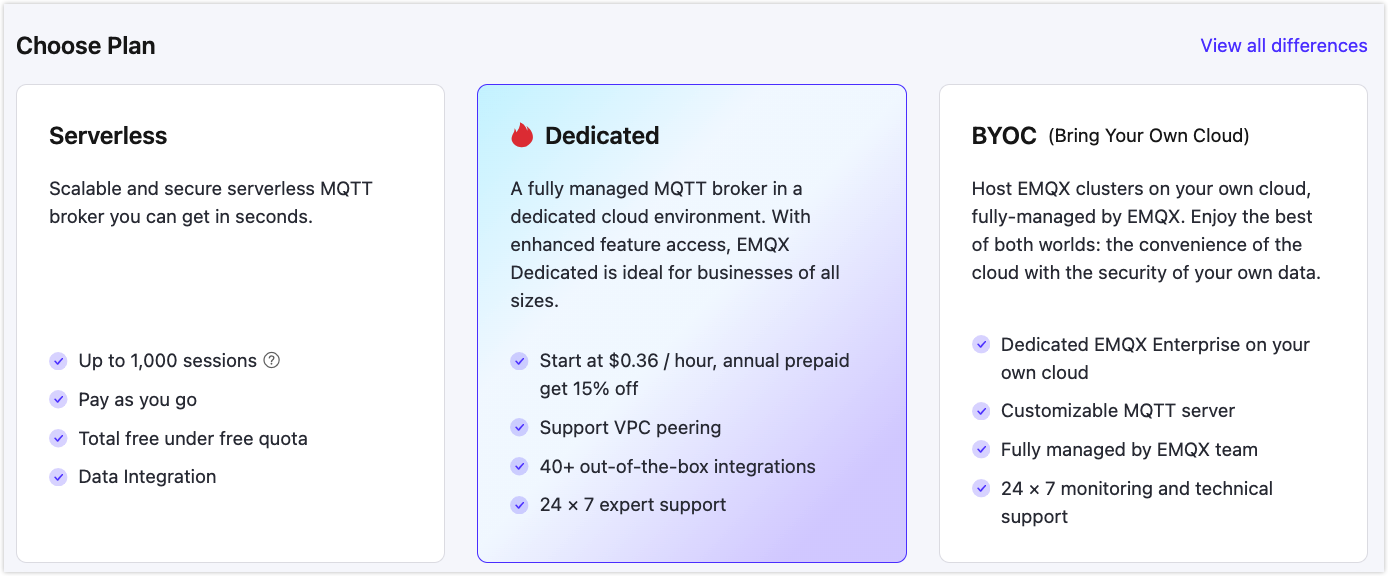
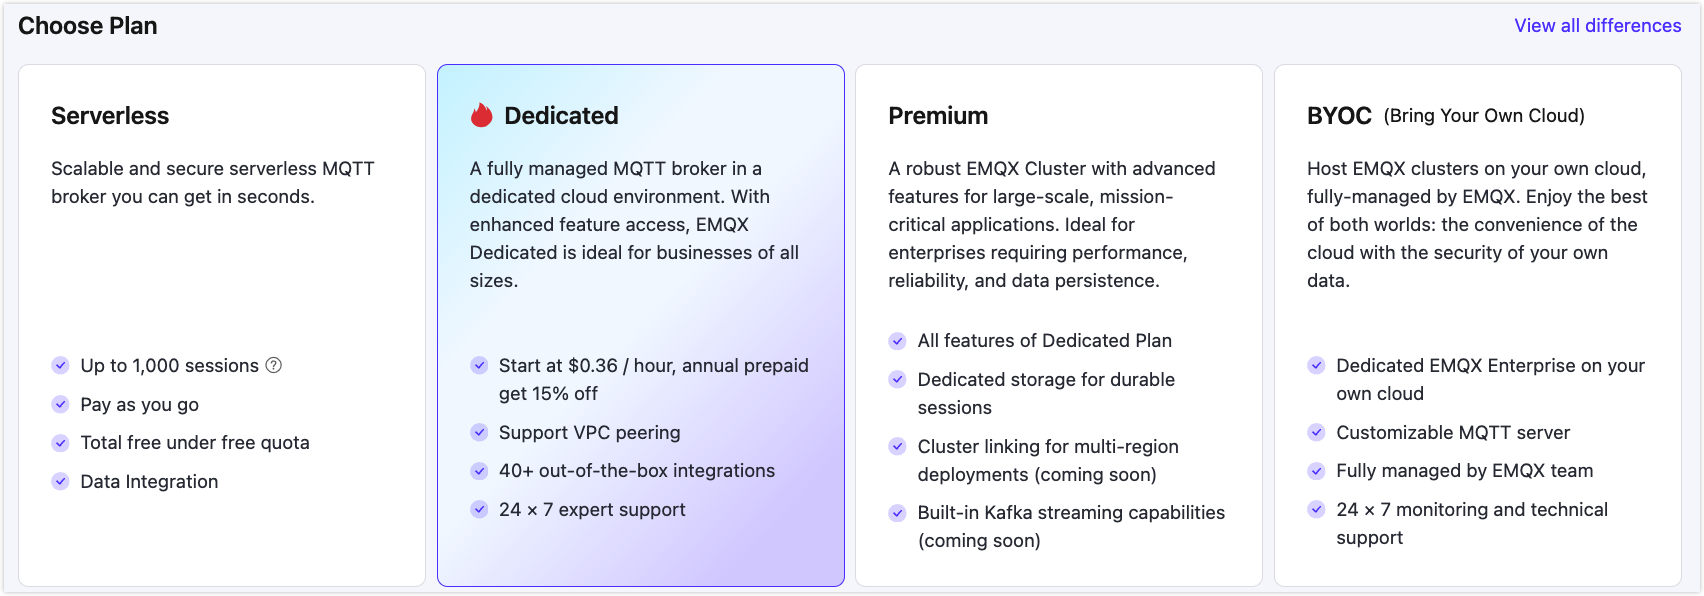
Incorporate review comments

diff --git a/en_US/deployments/port_guide_dedicated.md b/en_US/deployments/port_guide_dedicated.md
@@ -1,6 +1,6 @@
-# Dedicated and BYOC Connection Guide
+# Dedicated, Premium and BYOC Connection Guide
 
-This page introduces the protocols and ports used for connecting to the Dedicated and BYOC deployments and provides a troubleshooting guide for connection issues.
+This page introduces the protocols and ports used for connecting to the Dedicated, Premium and BYOC deployments and provides a troubleshooting guide for connection issues.
 
 ## Protocols and Ports Q&A
 
@@ -8,7 +8,7 @@ The following table lists the protocols and ports used for connecting to the Ded
 
 | **Plans**                | **TCP port(mqtt)** | **MQTT over TLS/SSL port (mqtts)** | **WebSocket port(ws)** | **WebSocket over TLS/SSL port(wss)** |
 | ------------------------ | ------------------ | ---------------------------------- | ---------------------- | ------------------------------------ |
-| Decicated | 1883               | 8883 (Need TLS/SSL configuration)  | 8083                   | 8084 (Need TLS/SSL configuration)    |
+| Decicated / Premium | 1883               | 8883 (Need TLS/SSL configuration)  | 8083                   | 8084 (Need TLS/SSL configuration)    |
 | BYOC                     | 1883               | 8883                               | 8083                   | 8084                                 |
 
 
@@ -62,9 +62,9 @@ You can check sample code (TLS-related sample code) to write client's code.
 
 If you encounter problems when connecting to a deployment, follow the steps in this guide based on your deployment plan for troubleshooting and self-diagnosis.
 
-### Dedicated Plan
+### Dedicated / Premium Plan
 
-If you encounter problems connecting to the Dedicated plan, self-diagnose and troubleshoot using the following steps:
+If you encounter problems connecting to the Dedicated / Premium plan, self-diagnose and troubleshoot using the following steps:
 
 1. **Check the connection address**. Ensure you are using the **correct IP address** provided by the Dedicated plan for connection. Note that the Dedicated plan supports direct connection using IP addresses and encrypted connection through custom TLS/SSL configuration. If you need a domain name as the connection address, you can point the Dedicated plan's connection IP address to your own domain name.
 

diff --git a/en_US/price/plans.md b/en_US/price/plans.md
@@ -71,14 +71,14 @@ This section provides a detailed comparison of features across different service
       <td style="text-indent: 2em;">Azure</td>
       <td>-</td>
       <td>&#10003</td>
-      <td>&#10007</td>
+      <td>Coming soon</td>
       <td>Coming soon</td>
    </tr>
    <tr>
       <td style="text-indent: 2em;">GCP</td>
       <td>-</td>
       <td>&#10003</td>
-      <td>&#10007</td>
+      <td>Coming soon</td>
       <td>&#10003</td>
    </tr>
    <tr>
@@ -156,18 +156,20 @@ This section provides a detailed comparison of features across different service
       <td>1000</td>
       <td>Unlimited</td>
       <td>Unlimited</td>
+      <td>Unlimited</td>
    </tr> 
    <tr>
       <td style="text-indent: 2em;">Maximum Single-Client Publishing TPS </td>
       <td>10</td>
       <td>Unlimited</td>
       <td>Unlimited</td>
+      <td>Unlimited</td>
    </tr>
    <tr>
       <td style="text-indent: 2em;">Maximum Message Size</td>
       <td>1 MB</td>
-      <td>10 MB</td>
-      <td>10 KB</td>
+      <td>1 MB</td>
+      <td>100 KB</td>
       <td>256 MB</td>
    </tr>
    <tr>
@@ -535,6 +537,7 @@ This section provides a detailed comparison of features across different service
       <td>&#10003</td>
    </tr>
 </table>
+
 
 
 

diff --git a/en_US/release_notes.md b/en_US/release_notes.md
@@ -5,19 +5,19 @@
 #### 2024-8
 
 - Released EMQX Platform Premium Plan.
-- The EMQX Dedicated stops supporting the value-added service of Event History.
-- New regions are added to the Azure platform.
+- The Event History service are fully supported in the EMQX Premium.
+- Added regions of North Europe and West Us 3 to the Azure platform.
 
 #### 2024-7
 
-- Added rule testing feature in data integration for Dedicated deployments.
-- Added connector editing function in data integration for Dedicated deployments.
-- Added deployment management API.
-- Updated Prometheus API configuration.
+- Adapted EMQX Platform Console to display gateway client information.
+- Supported starting and stopping deployments via Platform API.
 
 #### 2024-6
 
-- The EMQX Dedicated supports the value-added service of Event History (Beta).
+- The EMQX Platform supports the value-added service of Event History (Beta).
+- Released EMQX Cloud Status Page: https://status.emqxcloud.com/.
+- Supported customer control of deployment ports in EMQX Platform Console.
 
 #### 2024-5
 

diff --git a/en_US/create/premium.md b/en_US/create/premium.md
@@ -102,7 +102,7 @@ You can use any MQTT client tool to connect to the deployment for testing. It is
 
 ## Convert to a Commercial Deployment
 
-At the end of the trial period, your trial deployment will be automatically stopped. If you wish to continue using the Premium deployment, please reach out to our [Sales](https://www.emqx.com/en/contact?product=cloud&productEdition=BYOC&pageType=getQuotes) team to purchase a subscription. For detailed pricing information, refer to [Pricing - Premium Plan](../price/pricing.md#premium-plan).
+At the end of the trial period, your trial deployment will be automatically stopped. If you wish to continue using the Premium deployment, please reach out to our [Sales](https://www.emqx.com/en/contact?product=cloud&productEdition=BYOC&pageType=getQuotes) team to purchase the Premium Plan service. For detailed pricing information, refer to [Pricing - Premium Plan](../price/pricing.md#premium-plan).
 
 ::: tip
 

diff --git a/en_US/deployments/metrics.md b/en_US/deployments/metrics.md
@@ -81,7 +81,7 @@ The timeline metrics for Dedicated, Premium, and BYOC deployments include the fo
 - Messages
 - Packets
 - Dropped messages
-- Storage (GB) (Premium only)
+- Storage (GB) (for Premium Plan only)
 
 You can view graphical charts corresponding to each type of metric and detailed information at a specific time. For some metrics, the corresponding metrics in the API are indicated. If you need to learn and view more metrics, you can retrieve more metrics through the [API](https://docs.emqx.com/en/cloud/latest/api/dedicated.html#tag/Metrics).
 
@@ -113,6 +113,7 @@ The Subscriptions chart provides three metrics to display the subscription statu
 | client.unsubscribe | The number of unsubscriptions at the moment.  |
 
 <img src="./_assets/metric_dedicated_2.png" alt="metrics_detail" style="zoom: 33%;" />
+
 
 #### Messages
 

diff --git a/zh_CN/price/plans.md b/zh_CN/price/plans.md
@@ -949,15 +949,6 @@ EMQX Platform 提供以下四种全托管产品版本：
 | 腾讯云       | 广州，上海，北京                     |
 | 亚马逊云科技 | 宁夏，北京                           |
 
-### 旗舰版
-
-| 平台         | 区域                                 |
-| ------------ | ------------------------------------ |
-| 阿里云       | 北京，上海，深圳，杭州，张家口，成都 |
-| 华为云       | 华南-广州，华东-上海，华北-北京      |
-| 腾讯云       | 广州，上海，北京                     |
-| 亚马逊云科技 | 宁夏，北京                           |
-
 ### BYOC
 
 | 平台         | 区域                                 |

diff --git a/zh_CN/release_notes.md b/zh_CN/release_notes.md
@@ -6,18 +6,13 @@
 
 #### 2024-7
 
-- 专有版数据集成新增规则测试功能。
-- 专有版数据集成支持编辑连接器功能。
-- 增加部署管理 API。
-- 更新 Prometheus 服务配置。
+- 支持通过平台 API 启动和停止部署。
+- 调整 EMQX Cloud 控制台以显示网关客户端信息。
 
 #### 2024-6
 
-- 以下认证器添加了标记超级用户的配置：
-  - HTTP 密码认证
-  - Redis 密码认证
-  - MySQL 密码认证
-  - PostgreSQL 密码认证
+- 发布 EMQX Cloud 状态页面：https://status.emqxcloud.com/。
+- 支持用户在控制台中控制部署端口。
 
 #### 2024-5
 

diff --git a/en_US/vas/event_history.md b/en_US/vas/event_history.md
@@ -6,7 +6,7 @@ The Event History feature is only available for Premium Deployments. Make sure t
 
 :::
 
-Event History is a value-added service provided by the EMQX Platform. It records the client or message events, providing in-depth data insights for MQTT connections. This page introduces how to use the Event History.
+Event History is a service provided by the EMQX Platform. It records the client or message events, providing in-depth data insights for MQTT connections. This page introduces how to use the Event History.
 
 ## Benefits
 

diff --git a/zh_CN/create/overview.md b/zh_CN/create/overview.md
@@ -9,10 +9,6 @@
 ## [创建 EMQX 专有版部署](./dedicated.md)
 创建一个 EMQX 专有版部署并且通过 MQTTX 工具连接到部署。
 
-## <!--[<创建 EMQX 旗舰版部署](./dedicated.md)-->
-
-<!--创建一个 EMQX 旗舰版部署并且通过 MQTTX 工具连接到部署。-->
-
 ## [创建 EMQX BYOC 部署](./byoc.md)
 
 创建一个 EMQX Bring Your Own Cloud (BYOC) 部署并且通过 MQTTX 工具连接到部署。
